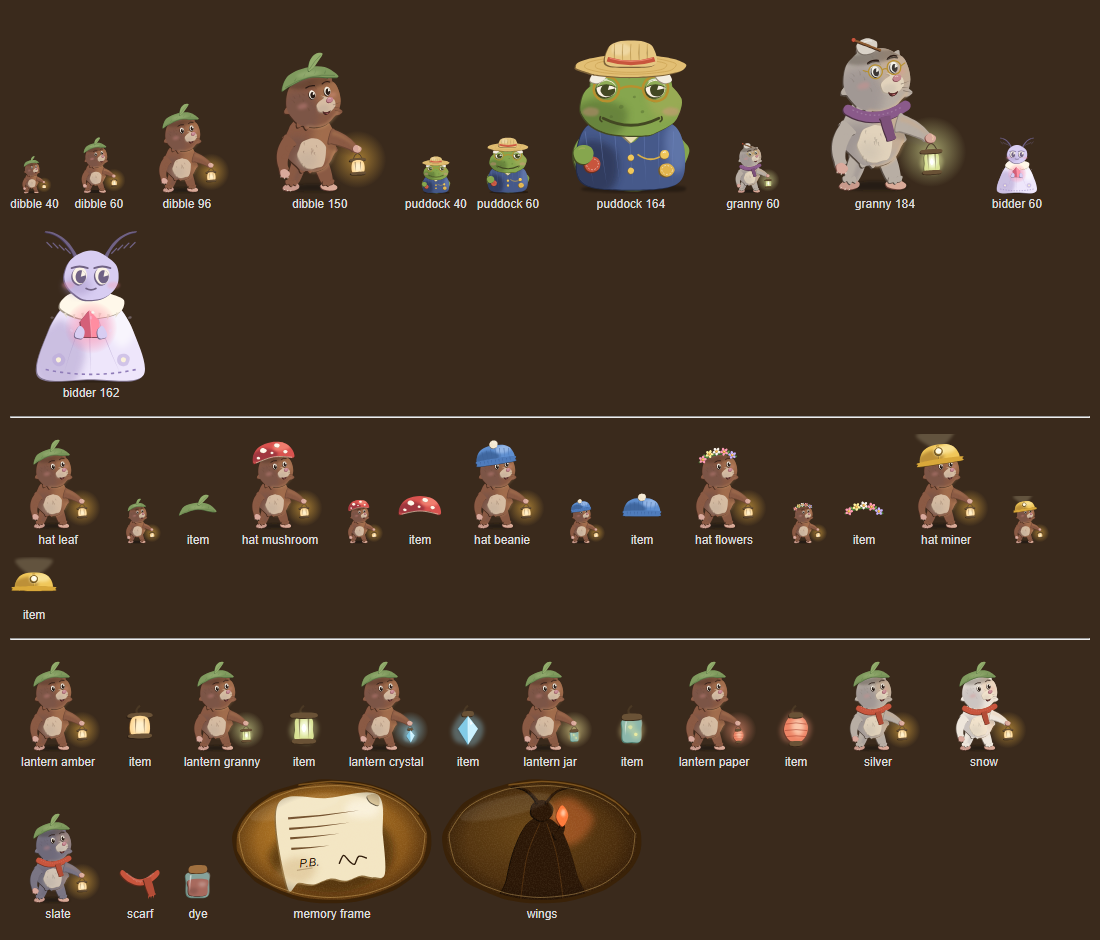
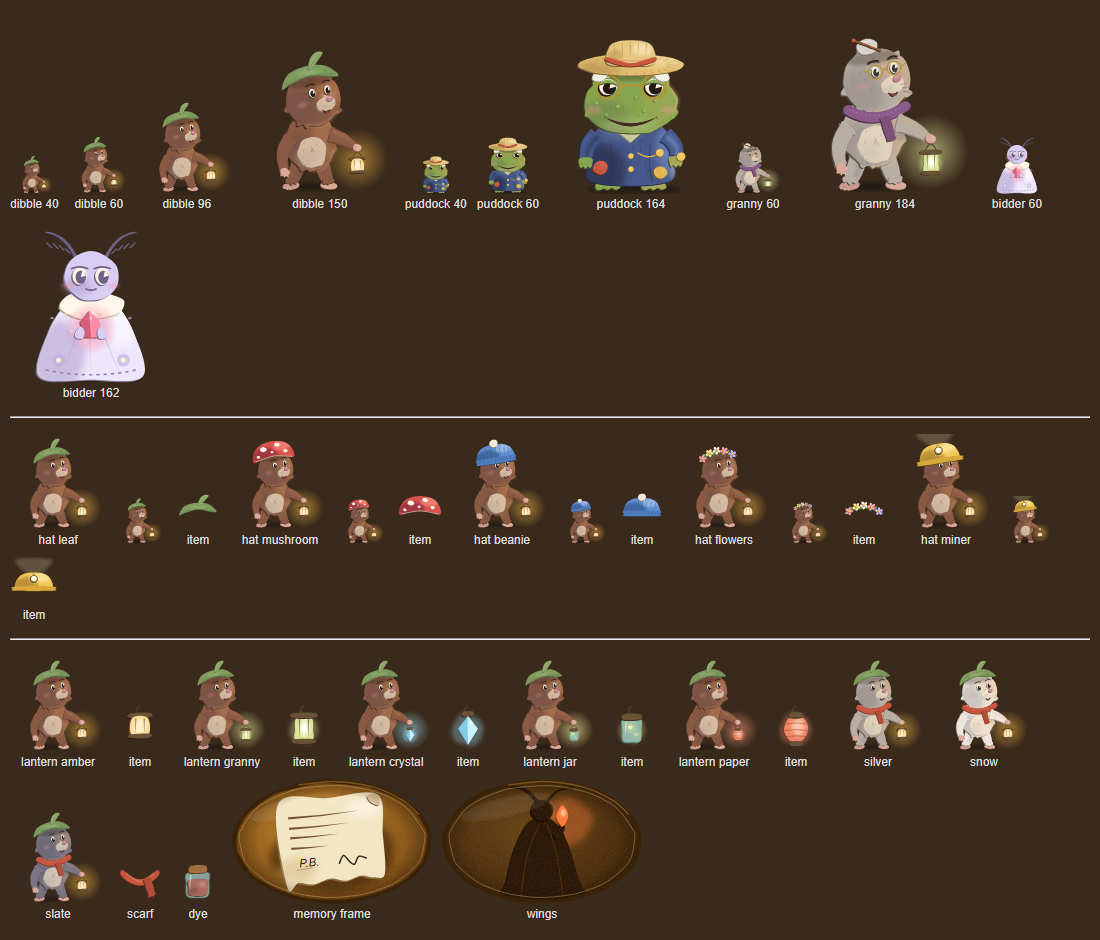
Puddock painted like Dibble
puddockBody now uses Dibble's techniques at Dibble's on-screen scale: the same
shape() edge offset and blur sizes, two-light shading clipped into each part
(cool lower-left, warm lantern side, cool top sheen, shade under the hat brim),
a warm rim light on the right, brush-stroke skin and coat texture, painted warts
with highlights instead of flat dots, a few rounded skin bumps on the silhouette,
the same eye edge and blush, and a painted closed smile instead of a drawn line.
He gains webbed feet under the coat and two sleeved hands (one holding a coin).
Straw hat, patched blue coat and drowsy lids are kept.

diff --git a/proto/paint.js b/proto/paint.js
@@ -260,58 +260,90 @@ export function sampleScene() {
 </svg>`;
 }
 
-// Old Puddock in the painterly style, 100x100 box (feet at y 97). Returns { defs, body }.
+// Old Puddock in the painterly style, 100x100 box (feet at y 97). Painted exactly like Dibble at Dibble's on-screen scale
+// (Dibble sits in the same box at .37): the same edge offset, blur sizes, bumpy silhouette (warts where Dibble has fur),
+// two-light shading clipped inside each part, a warm lantern rim on the right and brush-stroke texture. Returns { defs, body }.
 export function puddockBody(id) {
-  const g = "#86a64e", gLine = mix(g, "#1a0f08", .62), gDeep = mix(g, "#1a2a10", .45), gWarm = mix(g, "#e8c070", .35);
-  const coat = "#46598a", coatLine = mix(coat, "#0e1020", .6), straw = "#e2bf74", strawLine = mix(straw, "#3a2410", .6), O = [-.8, .7];
-  const head = ring(50, 46, 31, 19, 18, .04, 81), belly = ring(50, 76, 35, 22, 16, .05, 83);
-  const coatD = curve([[17, 78], [22, 60], [36, 56], [50, 69], [64, 56], [78, 60], [83, 78], [78, 94], [50, 97.5], [22, 94]]);
-  const bump = (cx) => ring(cx, 35, 10, 10, 12, .05, 85 + cx);
-  const lid = (cx) => shape(`M${cx - 6.4} 35 Q${cx} 27.2 ${cx + 6.4} 35 Q${cx} 31.6 ${cx - 6.4} 35 Z`, mix(g, "#c8d890", .15), gLine, [0, .6]);
+  const r = rng(83), g = "#86a64e", gLine = mix(g, "#1a0f08", .62), gDeep = mix(g, "#1a2a10", .45);
+  const C = { warm: mix(g, "#e8a868", .32), cool: mix(g, "#454056", .3), deep: mix(g, "#1a0f08", .5), cream: mix(g, "#f3e2c6", .72) };
+  const coat = "#46598a", coatLine = mix(coat, "#0e1020", .6), straw = "#e2bf74", strawLine = mix(straw, "#3a2410", .6), O = [-.67, .6];
+  const soft = `filter="url(#${id}soft)"`, blur = `filter="url(#${id}blur)"`;
+  const head = ring(50, 45, 28.5, 18.6, 18, .05, 81), coatD = curve([[24, 80], [27, 64], [37, 57.4], [50, 68], [63, 57.4], [73, 64], [76, 80], [74.6, 92], [50, 95.2], [25.4, 92]]);
+  const bump = (cx) => ring(cx, 33.5, 9.4, 9.2, 12, .05, 85 + cx);
+  const lid = (cx) => shape(`M${cx - 6.2} 34 Q${cx} 26.6 ${cx + 6.2} 34 Q${cx} 30.8 ${cx - 6.2} 34 Z`, mix(g, "#c8d890", .15), gLine, [0, .5]);
   const patch = (x, y, w, h, a, c) => `<g transform="rotate(${a} ${x} ${y})">${shape(curve(ring(x, y, w, h, 8, .08, x | 0)), c, mix(c, "#1a0f08", .55), O)}
-    <path d="${curve(ring(x, y, w - 1.3, h - 1.3, 8, .06, (x | 0) + 1))}" fill="none" stroke="${mix(c, "#ffffff", .6)}" stroke-width=".5" stroke-dasharray="1 1"/></g>`;
-  return { defs: `<filter id="${id}soft" x="-30%" y="-30%" width="160%" height="160%"><feGaussianBlur stdDeviation="2.4"/></filter>
-    <filter id="${id}blur" x="-30%" y="-30%" width="160%" height="160%"><feGaussianBlur stdDeviation=".8"/></filter>
-    <clipPath id="${id}H"><path d="${curve(head)}"/></clipPath><clipPath id="${id}C"><path d="${coatD}"/></clipPath>`,
+    <path d="${curve(ring(x + w * .3, y - h * .3, w * .45, h * .4, 7, .2, (x | 0) + 2))}" fill="${mix(c, "#fff3d0", .3)}" opacity=".45" ${blur}/>
+    ${[...Array(6)].map((_, k) => { const a2 = k / 6 * Math.PI * 2; return stroke(x + Math.cos(a2) * (w - 1), y + Math.sin(a2) * (h - 1), a2 + 1.57, 1, .25, mix(c, "#ffffff", .6), .8, .05); }).join("")}</g>`;
+  // webbed feet poking out under the coat: three rounded toes each, a lighter tip on the lit side
+  const foot = (x, k) => shape(curve([[x - 7, 97.4], [x - 7.6, 94.6], [x - 4, 92.6], [x + 1, 92.4], [x + 6, 93.4], [x + 7.6, 96.2], [x + 5, 97.6], [x + 2.4, 96.6], [x, 97.8], [x - 2.4, 96.8], [x - 4.6, 97.8]]), k ? C.warm : g, gLine, O) +
+    [-4.4, 0, 4.6].map((dx) => stroke(x + dx, 96.4, -1.57, 1.6, .35, C.cream, .55, .05)).join("");
+  // a sleeve ending in a three-fingered hand, warts on the knuckles
+  const arm = (x1, y1, cx, cy, x2, y2, hx, hy, flip, seed) => shape(limb(x1, y1, cx, cy, x2, y2, 4.4, 3.6), coat, coatLine, O) +
+    `<path d="${limb(x1 + 1, y1 + 1, cx + 1, cy + 1, x2, y2, 1.6, .8)}" fill="${flip > 0 ? "#8fa8e0" : "#20283e"}" opacity=".45" ${blur}/>` +
+    shape(curve([[hx - 3.6, hy - 2], [hx + 3.6, hy - 2.2], [hx + 4, hy + 1.6], [hx + 2.8, hy + 4], [hx + 1.4, hy + 3], [hx, hy + 4.4], [hx - 1.4, hy + 3], [hx - 2.8, hy + 4], [hx - 4, hy + 1.6]]), flip > 0 ? C.warm : g, gLine, O) +
+    [-2.8, 0, 2.8].map((dx) => stroke(hx + dx, hy + 3.2, -1.57, 1.4, .3, C.cream, .5, .05)).join("");
+  const headTufts = head.filter((_, k) => [1, 8, 16].includes(k));
+  return { defs: `<filter id="${id}soft" x="-30%" y="-30%" width="160%" height="160%"><feGaussianBlur stdDeviation="2.6"/></filter>
+    <filter id="${id}blur" x="-30%" y="-30%" width="160%" height="160%"><feGaussianBlur stdDeviation=".9"/></filter>
+    <clipPath id="${id}H"><path d="${curve(head)}"/></clipPath><clipPath id="${id}C"><path d="${coatD}"/></clipPath>
+    <clipPath id="${id}B"><path d="${curve(ring(50, 21.4, 32, 6.6, 18, .03, 113))}"/></clipPath>`,
   body: `
-    <path d="${curve(ring(50, 97, 34, 2.8, 12, .2, 87))}" fill="#000" opacity=".3" filter="url(#${id}blur)"/>
-    ${shape(curve(belly), g, gLine, O)}
+    <path d="${curve(ring(50, 97.4, 30, 2.6, 12, .2, 87))}" fill="#0f0e0b" opacity=".45" ${blur}/>
+    ${foot(36, 0)}${foot(64, 1)}
     ${shape(coatD, coat, coatLine, O)}
     <g clip-path="url(#${id}C)">
-      <path d="${curve(ring(26, 84, 16, 18, 9, .2, 89))}" fill="#20283e" opacity=".55" filter="url(#${id}soft)"/>
-      <path d="${curve(ring(78, 70, 8, 16, 9, .2, 91))}" fill="#8fa8e0" opacity=".35" filter="url(#${id}soft)"/>
-      ${[0, 1, 2, 3, 4, 5, 6].map((k) => stroke(22 + k * 9, 62, 1.5 + (k - 3) * .03, 34, .35, "#7088c0", .45, .02)).join("")}
+      <path d="${curve(ring(30, 86, 16, 18, 9, .2, 89))}" fill="#20283e" opacity=".6" ${soft}/>
+      <path d="${curve(ring(74, 72, 9, 16, 9, .2, 91))}" fill="#8fa8e0" opacity=".45" ${soft}/>
+      <path d="${curve(ring(46, 62, 12, 5, 9, .2, 92))}" fill="#9aa5c8" opacity=".25" ${soft}/>
+      ${[...Array(14)].map(() => stroke(28 + r() * 44, 66 + r() * 24, 1.5 + (r() - .5) * .3, 3 + r() * 4, .35, "#1e2848", .3, .06)).join("")}
+      ${[[38, 70, 40, 82, 37, 93], [62, 70, 60, 82, 63, 93]].map(([a, b, c, d, e, f]) => `<path d="M${a} ${b} Q${c} ${d} ${e} ${f}" stroke="#2a3558" stroke-width=".8" fill="none" opacity=".5"/>`).join("")}
     </g>
-    ${shape("M36 56 L50 69 L64 56 Q50 61 36 56 Z", "#e9dfb4", mix("#e9dfb4", "#3a2410", .5), O)}
-    ${patch(26.5, 82, 5, 4.6, -8, "#c8553d")}${patch(72, 85.5, 4.6, 4, 10, "#e0b44e")}
-    <path d="M54 76 Q62 82 70 76" stroke="#d9b04a" stroke-width="1.1" fill="none"/>
-    ${shape(curve(ring(70.5, 76, 2.7, 2.7, 9, .05, 93)), "#f0c75a", strawLine, [-.5, .5])}<path d="M69.4 75 q.8 -.8 1.8 -.4" stroke="#fff" stroke-width=".6" fill="none"/>
-    ${[78, 86].map((y) => shape(curve(ring(50, y, 1.9, 1.9, 8, .05, y)), "#f0c75a", strawLine, [-.4, .4])).join("")}
-    ${shape(curve(bump(35)), g, gLine, O)}${shape(curve(bump(65)), g, gLine, O)}
+    <path d="${curve([[73, 64], [76, 76], [75, 90]], false)}" stroke="#ffc98a" stroke-width="1" fill="none" opacity=".5" stroke-linecap="round" ${blur}/>
+    ${shape("M37 57.6 L50 68.6 L63 57.6 Q50 62 37 57.6 Z", C.cream, mix(C.cream, gLine, .4), O)}
+    <path d="M44 61 L50 66.6 L56 61" stroke="${mix(C.cream, "#7a7a80", .3)}" stroke-width="1.6" fill="none" opacity=".5" ${blur}/>
+    ${patch(31.5, 84, 4.6, 4.2, -8, "#c8553d")}${patch(68, 87, 4.2, 3.7, 10, "#e0b44e")}
+    <path d="M54 75 Q61 80 67 75" stroke="#d9b04a" stroke-width=".9" fill="none"/>
+    ${shape(curve(ring(67.6, 75, 2.4, 2.4, 9, .05, 93)), "#f0c75a", strawLine, [-.45, .45])}${stroke(66.6, 74.2, -.6, 1.6, .35, "#fffbe8", .9, .2)}
+    ${[77, 85].map((y) => shape(curve(ring(50, y, 1.7, 1.7, 8, .05, y)), "#f0c75a", strawLine, [-.4, .4]) + stroke(49.4, y - .6, -.6, 1, .3, "#fffbe8", .8, .2)).join("")}
+    ${arm(29, 64, 22, 70, 23, 78, 22.4, 80.4, -1, 121)}
+    ${arm(71, 64, 79, 70, 77.6, 77, 77.4, 79.6, 1, 123)}
+    ${shape(curve(ring(80.6, 77.4, 2.6, 2.6, 10, .04, 125)), "#f0c75a", strawLine, [-.45, .45])}${stroke(79.6, 76.4, -.7, 1.8, .35, "#fffbe8", .9, .2)}
+    ${shape(curve(bump(36)), g, gLine, O)}${shape(curve(bump(64)), g, gLine, O)}
+    ${tuftLine(headTufts, 50, 45, gLine, 37, 1.1, 2.2, O)}
     ${shape(curve(head), g, gLine, O)}
+    ${furEdge(headTufts, 50, 45, [g], 37, 1.1, 2.2)}
     <g clip-path="url(#${id}H)">
-      <path d="${curve(ring(30, 54, 18, 12, 9, .2, 95))}" fill="${gDeep}" opacity=".6" filter="url(#${id}soft)"/>
-      <path d="${curve(ring(72, 40, 12, 14, 9, .2, 97))}" fill="${gWarm}" opacity=".55" filter="url(#${id}soft)"/>
-      ${[[44, 47, 1.4], [57, 50, 1.1], [64, 43, 1.6], [38, 53, 1], [52, 41, .9]].map(([x, y, r]) => `<path d="${curve(ring(x, y, r, r * .85, 7, .2, x))}" fill="${gDeep}" opacity=".5"/>`).join("")}
+      <path d="${curve(ring(32, 55, 18, 12, 10, .2, 95))}" fill="${C.cool}" opacity=".65" ${soft}/>
+      <path d="${curve(ring(70, 42, 13, 15, 10, .2, 97))}" fill="${C.warm}" opacity=".5" ${soft}/>
+      <path d="${curve(ring(40, 32, 12, 5, 8, .25, 98))}" fill="#9aa59a" opacity=".22" ${soft}/>
+      <path d="${curve(ring(50, 59, 18, 5, 10, .2, 99))}" fill="${C.cream}" opacity=".3" ${soft}/>
+      ${[...Array(16)].map(() => stroke(26 + r() * 48, 30 + r() * 28, -2.2 + (r() - .5) * .8, 1.6 + r() * 2, .35, C.deep, .2, .1)).join("")}
+      <path d="${curve(ring(50, 27.6, 26, 3.6, 10, .2, 53))}" fill="${C.deep}" opacity=".5" ${blur}/>
     </g>
-    ${pieEye(35, 36, 101, 5.5, 6, 5.2, gLine, 1.1)}${pieEye(65, 36, 103, 5.9, 6, 5.2, gLine, 1.1)}
-    ${lid(35)}${lid(65)}
-    <g fill="none" stroke="#b8902e" stroke-width="1.5"><path d="${curve(ring(35, 36, 7.8, 7.6, 12, .02, 105))}"/><path d="${curve(ring(65, 36, 7.8, 7.6, 12, .02, 107))}"/><path d="M42.8 36 Q50 33 57.2 36"/></g>
-    <path d="M31 31.4 Q33 30 35.4 30.2 M61 31.4 Q63 30 65.4 30.2" stroke="#fff" stroke-width=".8" opacity=".7" stroke-linecap="round"/>
-    <path d="M60 31 L63 30" stroke="#fff" stroke-width="1.4" stroke-linecap="round"><animate attributeName="opacity" values="0;0;1;0" keyTimes="0;.8;.85;1" dur="6s" repeatCount="indefinite"/></path>
-    ${shape(curve([[25, 30.6], [29, 24.6], [36, 24.4], [41, 27], [36, 27.6], [33, 31], [29, 32.6]]), "#f3eee2", "#9a8e7a", [-.5, .5])}
-    ${shape(curve([[75, 30.6], [71, 24.6], [64, 24.4], [59, 27], [64, 27.6], [67, 31], [71, 32.6]]), "#f3eee2", "#9a8e7a", [-.5, .5])}
-    ${[[30, 27.4, -.5], [33.6, 26.6, -.3], [70, 27.4, -2.6], [66.4, 26.6, -2.8]].map(([x, y, a]) => stroke(x, y, a, 3, .4, "#c8bea8", .8, .1)).join("")}
-    <path d="M33 54 Q50 62.5 67 54" stroke="${gLine}" stroke-width="1.7" fill="none" stroke-linecap="round"/>
-    <path d="M31.4 53 Q30.4 55 32.2 56 M68.6 53 Q69.6 55 67.8 56" stroke="${gLine}" stroke-width="1" fill="none" stroke-linecap="round"/>
-    <path d="${curve(ring(25.6, 50, 5, 2.6, 8, .2, 109))}" fill="#e88f8f" opacity=".35" filter="url(#${id}blur)"/><path d="${curve(ring(74.4, 50, 5, 2.6, 8, .2, 111))}" fill="#e88f8f" opacity=".35" filter="url(#${id}blur)"/>
-    ${shape(curve(ring(50, 22, 33.5, 6.8, 18, .03, 113)), straw, strawLine, O)}
-    <g stroke="#c49a4a" stroke-width=".5" opacity=".7" fill="none"><path d="${curve(ring(50, 22, 28, 5.2, 14, .03, 115))}"/><path d="${curve(ring(50, 22, 22, 4, 12, .03, 117))}"/></g>
-    ${shape(curve([[35, 21], [36.4, 11], [42, 7.4], [50, 6.6], [58, 7.4], [63.6, 11], [65, 21], [50, 22.6]]), mix(straw, "#fff3d0", .15), strawLine, O)}
-    <path d="${curve(ring(44, 12, 6, 4, 8, .2, 119))}" fill="#fff6dc" opacity=".35" filter="url(#${id}blur)"/>
-    <g stroke="#c49a4a" stroke-width=".5" opacity=".65">${[40, 45, 50, 55, 60].map((x) => `<path d="M${x} 8.6 Q${x - .6} 14 ${x} 20"/>`).join("")}</g>
-    <path d="M35.6 18 Q50 22.4 64.4 18" stroke="#c8553d" stroke-width="3" fill="none"/><path d="M37 17.4 Q50 21.2 63 17.4" stroke="#e8836a" stroke-width=".7" fill="none"/>
-    ${shape(curve(ring(21, 76, 6, 6, 9, .1, 121)), g, gLine, O)}<path d="M18 73 q2 -1.4 4 -.6" stroke="${gWarm}" stroke-width=".8" fill="none" opacity=".7"/>` };
+    ${[[42, 47, 1.3], [58, 49.6, 1], [65, 43, 1.4], [35, 52, .9], [53, 41.6, .8], [70, 50, .8], [29, 45, .9]].map(([x, y, s], k) =>
+      shape(curve(ring(x, y, s, s * .85, 7, .2, 40 + k)), mix(g, "#c8d890", .25), gDeep, [-.35, .3]) + stroke(x + s * .2, y - s * .5, -.6, s * .8, .25, "#f3f6d8", .6, .2)).join("")}
+    <path d="${curve(head.slice(14, 18).concat(head.slice(0, 2)), false)}" stroke="#ffc98a" stroke-width="1" fill="none" opacity=".55" stroke-linecap="round" ${blur}/>
+    ${pieEye(36, 35, 101, 5.5, 5.4, 5, "#241812", 1.1)}${pieEye(64, 35, 103, 5.9, 5.4, 5, "#241812", 1.1)}
+    ${lid(36)}${lid(64)}
+    <g fill="none" stroke="#b8902e" stroke-width="1.1"><path d="${curve(ring(36, 35, 7.4, 7.2, 12, .02, 105))}"/><path d="${curve(ring(64, 35, 7.4, 7.2, 12, .02, 107))}"/><path d="M43.4 35 Q50 32.2 56.6 35"/></g>
+    <path d="M32 30.4 Q34 29 36.4 29.2 M62 30.4 Q64 29 66.4 29.2" stroke="#fffbe8" stroke-width=".7" opacity=".7" stroke-linecap="round"/>
+    <path d="M61 30 L64 29" stroke="#fff" stroke-width="1.2" stroke-linecap="round"><animate attributeName="opacity" values="0;0;1;0" keyTimes="0;.8;.85;1" dur="6s" repeatCount="indefinite"/></path>
+    ${shape(curve([[26.4, 29.6], [30, 23.8], [37, 23.6], [42, 26.2], [37, 26.8], [34, 30], [30, 31.6]]), "#f3eee2", "#9a8e7a", [-.45, .45])}
+    ${shape(curve([[73.6, 29.6], [70, 23.8], [63, 23.6], [58, 26.2], [63, 26.8], [66, 30], [70, 31.6]]), "#f3eee2", "#9a8e7a", [-.45, .45])}
+    ${[[31, 26.6, -.5], [34.6, 25.8, -.3], [69, 26.6, -2.6], [65.4, 25.8, -2.8]].map(([x, y, a]) => stroke(x, y, a, 3, .4, "#c8bea8", .8, .1)).join("")}
+    ${shape(`M34.6 53.4 Q50 60.6 65.4 53.4 Q58 58.4 50 58.8 Q42 58.4 34.6 53.4 Z`, "#4a2a22", "#2a1512", [-.3, .3])}
+    ${stroke(34.6, 53, 2.2, 2.4, .35, gLine, .7, .2)}${stroke(65.4, 53, .9, 2.4, .35, gLine, .7, .2)}
+    <path d="${curve(ring(27.4, 49, 4.6, 2.6, 8, .3, 109))}" fill="#d98f8f" opacity=".38" ${blur}/><path d="${curve(ring(72.6, 49, 4.4, 2.4, 8, .3, 111))}" fill="#e39a8c" opacity=".4" ${blur}/>
+    ${shape(curve(ring(50, 21.4, 32, 6.6, 18, .03, 113)), straw, strawLine, O)}
+    <g clip-path="url(#${id}B)">
+      <path d="${curve(ring(30, 24, 14, 4, 9, .2, 114))}" fill="#a07a3a" opacity=".5" ${soft}/><path d="${curve(ring(70, 19, 12, 3, 9, .2, 115))}" fill="#fff0c4" opacity=".6" ${soft}/>
+      ${[...Array(26)].map((_, k) => { const a = k / 26 * Math.PI * 2; return stroke(50 + Math.cos(a) * 22, 21.4 + Math.sin(a) * 4.4, a, 8, .3, "#b8893c", .55, .03); }).join("")}
+    </g>
+    ${shape(curve([[35.4, 20.6], [36.8, 10.6], [42, 7.2], [50, 6.4], [58, 7.2], [63.2, 10.6], [64.6, 20.6], [50, 22.2]]), mix(straw, "#fff3d0", .15), strawLine, O)}
+    <path d="${curve(ring(57, 12, 6, 4, 8, .2, 119))}" fill="#fff6dc" opacity=".45" ${blur}/><path d="${curve(ring(40, 16, 5, 4, 8, .2, 120))}" fill="#a07a3a" opacity=".35" ${blur}/>
+    ${[39.6, 44.6, 49.6, 54.6, 59.6].map((x) => stroke(x, 8.6, 1.57 + (x - 50) * .01, 10.6, .3, "#b8893c", .6, .02)).join("")}
+    ${shape(curve([[36, 16.8], [50, 20.4], [64, 16.8], [64.2, 19.4], [50, 22.6], [35.8, 19.4]]), "#c8553d", mix("#c8553d", "#1a0f08", .55), [-.4, .4])}
+    <path d="M38 17.6 Q50 20.6 62 17.6" stroke="#e8836a" stroke-width=".6" fill="none" opacity=".8"/>` };
 }
 
 // painted crystal shard: base at (x, y), width w, height h, lean a; lit from the right, shaded left, faint ridge
